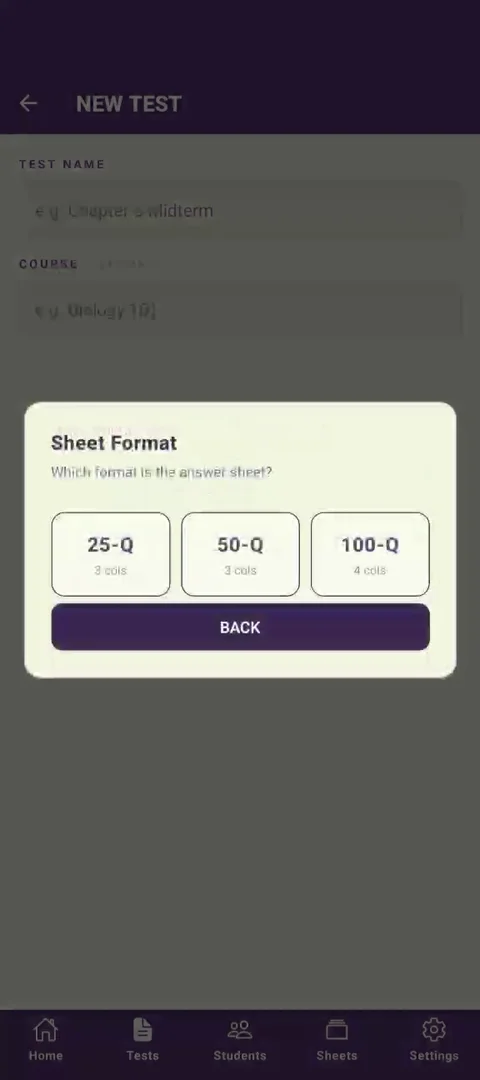
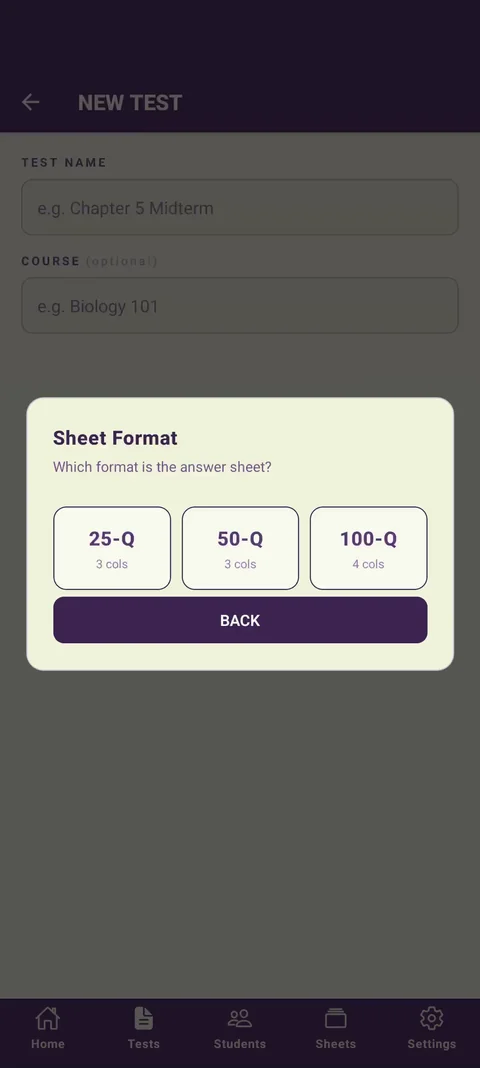
m

diff --git a/css/main.css b/css/main.css
@@ -1052,7 +1052,12 @@ textarea.form-input { resize: vertical; min-height: 140px; line-height: 1.6; }
   display: flex;
   gap: 24px;
   align-items: flex-start;
-  margin: 16px 0 32px;
+  margin: 24px 0;
+}
+.tut-divider {
+  border: none;
+  border-top: 1px solid var(--border);
+  margin: 0 0 24px;
 }
 .tut-step-text { flex: 1 1 auto; min-width: 0; }
 .tut-step-text .util-h2:first-child { margin-top: 0; }
@@ -1062,12 +1067,12 @@ textarea.form-input { resize: vertical; min-height: 140px; line-height: 1.6; }
   flex-direction: row;
   flex-wrap: wrap;
   align-content: flex-start;
-  gap: 10px;
-  max-width: 230px;
+  gap: 12px;
+  max-width: 280px;
 }
 .tut-shot {
   display: block;
-  height: 200px;
+  height: 280px;
   width: auto;
   max-width: 100%;
   border-radius: var(--radius-md);
@@ -1081,7 +1086,7 @@ textarea.form-input { resize: vertical; min-height: 140px; line-height: 1.6; }
 @media (max-width: 700px) {
   .tut-step { flex-direction: column; }
   .tut-shots { max-width: 100%; }
-  .tut-shots .tut-shot { height: 170px; }
+  .tut-shots .tut-shot { height: 240px; }
 }
 
 .tut-lightbox {
@@ -1095,8 +1100,14 @@ textarea.form-input { resize: vertical; min-height: 140px; line-height: 1.6; }
   z-index: 999;
 }
 .tut-lightbox.is-open { display: flex; }
-.tut-lightbox img {
+.tut-lightbox-inner {
+  position: relative;
   max-width: min(420px, 90vw);
+  max-height: 88vh;
+}
+.tut-lightbox-inner img {
+  display: block;
+  max-width: 100%;
   max-height: 88vh;
   border-radius: var(--radius-lg);
   box-shadow: 0 20px 60px rgba(0,0,0,0.45);
@@ -1120,3 +1131,16 @@ textarea.form-input { resize: vertical; min-height: 140px; line-height: 1.6; }
   box-shadow: var(--shadow-card);
 }
 .tut-lightbox-close:hover { background: var(--cream); }
+
+/* On desktop the close button sits at the enlarged image's own corner
+   instead of the page corner - much closer read, still fully reachable
+   since it overlaps the image only slightly. Mobile keeps the page-corner
+   position (base rule above) since the image runs near full-width there
+   and an overlapping button risks getting clipped or hard to tap. */
+@media (min-width: 701px) {
+  .tut-lightbox-close {
+    position: absolute;
+    top: -16px;
+    right: -16px;
+  }
+}

diff --git a/support/quick-start/create-your-first-test/index.html b/support/quick-start/create-your-first-test/index.html
@@ -17,8 +17,8 @@
   <link rel="preconnect" href="https://fonts.googleapis.com">
   <link rel="preconnect" href="https://fonts.gstatic.com" crossorigin>
   <link href="https://fonts.googleapis.com/css2?family=Manrope:wght@400;500;600;700;800&display=swap" rel="stylesheet">
-  <link rel="stylesheet" href="../../../css/main.css?v=2">
-  <script src="../../../js/tut-lightbox.js?v=2" defer></script>
+  <link rel="stylesheet" href="../../../css/main.css?v=5">
+  <script src="../../../js/tut-lightbox.js?v=5" defer></script>
 </head>
 <body class="util-body">
 
@@ -49,6 +49,8 @@
     </div>
   </div>
 
+  <hr class="tut-divider">
+
   <div class="tut-step">
     <div class="tut-step-text">
       <h2 class="util-h2">2. If you're scanning a key: paper or Key Generator</h2>
@@ -63,6 +65,8 @@
     </div>
   </div>
 
+  <hr class="tut-divider">
+
   <div class="tut-step">
     <div class="tut-step-text">
       <h2 class="util-h2">3. Name your test</h2>
@@ -74,6 +78,8 @@
     </div>
   </div>
 
+  <hr class="tut-divider">
+
   <div class="tut-step">
     <div class="tut-step-text">
       <h2 class="util-h2">4. Sheet size doesn't have to match your question count exactly</h2>
@@ -83,6 +89,8 @@
       <img class="tut-shot" src="../../../images/support/quick-start/create-your-first-test/04-confirm-length.webp" alt="Confirmation dialog: Create 20-Q Key? Questions 21-25 are blank.">
     </div>
   </div>
+
+  <hr class="tut-divider">
 
   <div class="tut-step">
     <div class="tut-step-text">
@@ -106,8 +114,10 @@
 </div>
 
 <div class="tut-lightbox">
-  <button type="button" class="tut-lightbox-close" aria-label="Close">&times;</button>
-  <img src="" alt="">
+  <div class="tut-lightbox-inner">
+    <button type="button" class="tut-lightbox-close" aria-label="Close">&times;</button>
+    <img src="" alt="">
+  </div>
 </div>
 
 <footer class="site-footer" role="contentinfo">
